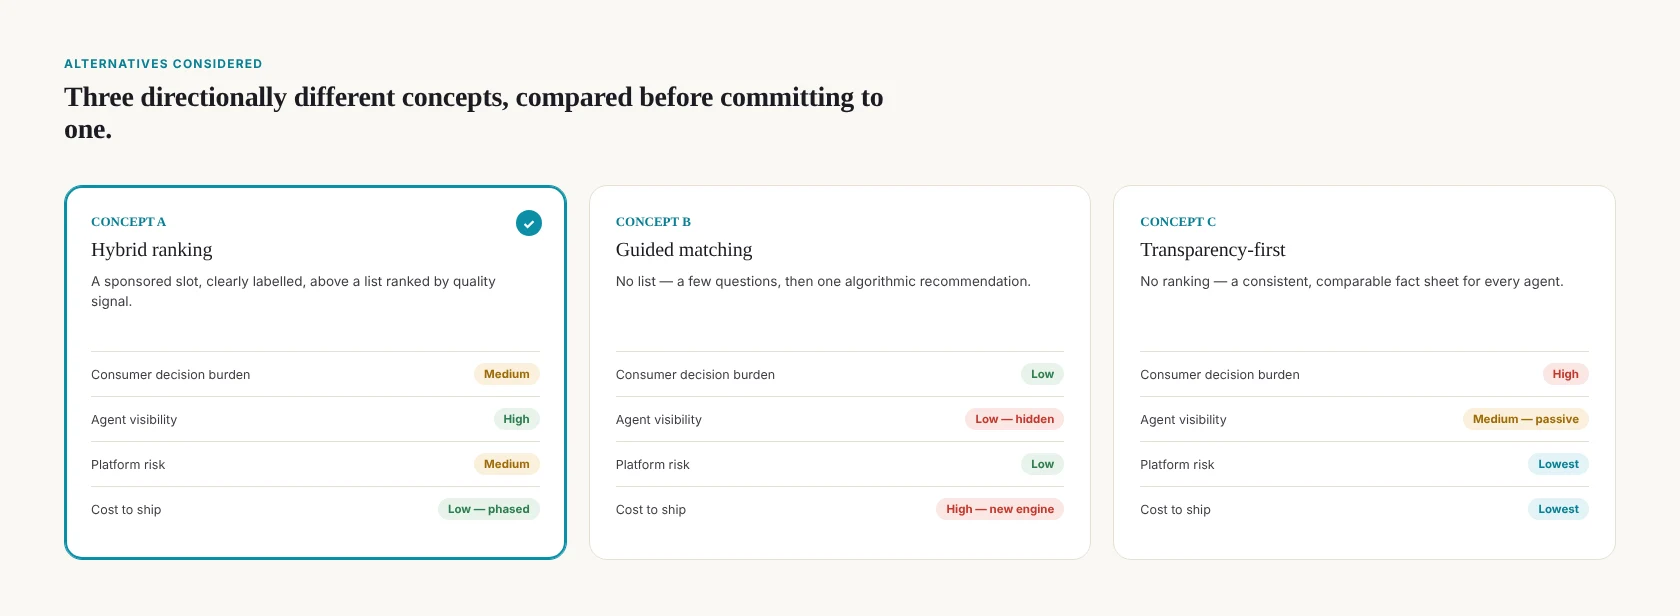
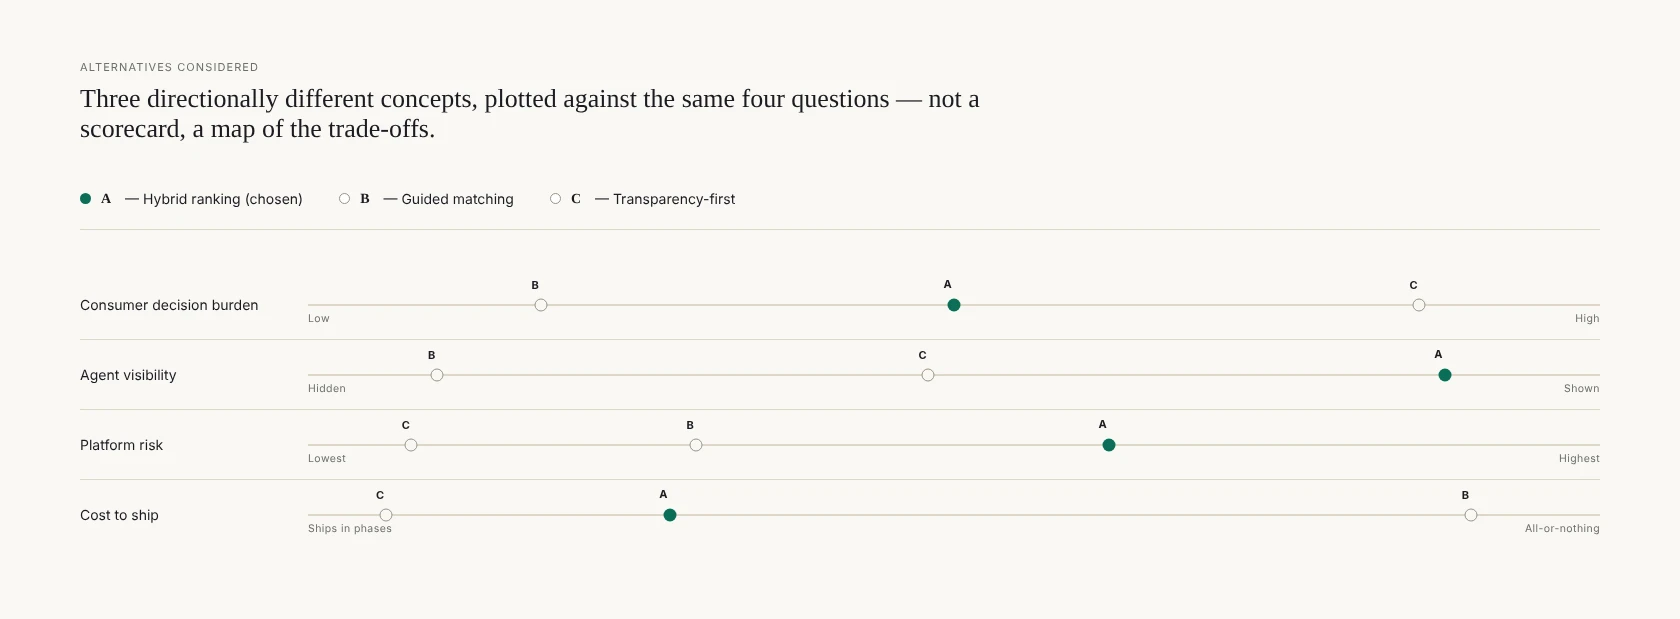
Redesign Rightmove Partners visuals, trim prose
Replace the three mockups with a more editorial, less templated
visual language (serif headlines, hairline rules, no card/shadow/pill
chrome), swap the three-card trade-off grid for a dot-plot comparison
diagram, and add a simple before/after flow diagram for the core
problem. Cut prose throughout so the images carry more of the story.

diff --git a/work/rightmove-partners.html b/work/rightmove-partners.html
@@ -59,56 +59,57 @@
     <section class="cs-section" id="sec-summary-0">
   <span class="num">01</span>
   <h2 class="divider serif split"><span class="w">Summary</span></h2>
-  <p class="text reveal">This is a concept project, not a client engagement. It started from a specific question about a real, live product: Rightmove's agent-valuation flow promises “your chosen agent” — but never explains how that choice actually happens. I used that gap to explore what a Lead Product Designer role on Rightmove's Partners domain would actually require: not just a redesigned screen, but a defensible point of view on a two-sided trust problem.</p>
-<div class="cards  reveal"><div class="mini"><svg class="mini-icon" viewBox="0 0 24 24" fill="none" stroke="currentColor" stroke-width="1.6" stroke-linecap="round" stroke-linejoin="round" aria-hidden="true"><circle cx="12" cy="12" r="10"/><polygon points="16.24 7.76 14.12 14.12 7.76 16.24 9.88 9.88 16.24 7.76"/></svg><b>Diagnosed from both sides</b><span>Consumers get no trust signal when picking an agent. Agents get no way to differentiate beyond paid placement. Neither side's problem is solved by fixing the other.</span></div><div class="mini"><svg class="mini-icon" viewBox="0 0 24 24" fill="none" stroke="currentColor" stroke-width="1.6" stroke-linecap="round" stroke-linejoin="round" aria-hidden="true"><path d="M12 3v18M3 7h18M6 7l-3.5 7a3 3 0 0 0 6 0zM18 7l-3.5 7a3 3 0 0 0 6 0z"/></svg><b>Three directions weighed</b><span>Compared against two rejected alternatives — a guided-matching engine and a no-ranking fact sheet — before committing, and for stated reasons.</span></div><div class="mini"><svg class="mini-icon" viewBox="0 0 24 24" fill="none" stroke="currentColor" stroke-width="1.6" stroke-linecap="round" stroke-linejoin="round" aria-hidden="true"><path d="M9 21h9M8 21c1.5 0 2-1 2-2.5V8a3.5 3.5 0 0 1 6.5-1.9M6 13h8"/></svg><b>Commercial model preserved</b><span>Paid placement stays. It just stops pretending to be a trust signal. The redesign has to survive a conversation with the team that owns that revenue.</span></div></div>
-<p class="text reveal">Role: self-directed, solo. Based entirely on Rightmove's public-facing pages — no internal data, no access, no claim that this is what Rightmove is actually building.</p>
+  <p class="text reveal">Rightmove's agent-valuation flow promises “your chosen agent”, then never lets you choose. I used that gap to explore what a Lead role on Rightmove's Partners domain actually requires.</p>
+<div class="cards  reveal"><div class="mini"><svg class="mini-icon" viewBox="0 0 24 24" fill="none" stroke="currentColor" stroke-width="1.6" stroke-linecap="round" stroke-linejoin="round" aria-hidden="true"><path d="M10 13a5 5 0 0 0 7.54.54l3-3a5 5 0 0 0-7.07-7.07l-1.72 1.71"/><path d="M14 11a5 5 0 0 0-7.54-.54l-3 3a5 5 0 0 0 7.07 7.07l1.71-1.71"/></svg><b>Diagnosed from both sides</b><span>Consumers get no trust signal. Agents get no way to differentiate beyond ad spend.</span></div><div class="mini"><svg class="mini-icon" viewBox="0 0 24 24" fill="none" stroke="currentColor" stroke-width="1.6" stroke-linecap="round" stroke-linejoin="round" aria-hidden="true"><path d="M12 3v18M3 7h18M6 7l-3.5 7a3 3 0 0 0 6 0zM18 7l-3.5 7a3 3 0 0 0 6 0z"/></svg><b>Three directions weighed</b><span>Compared against two rejected alternatives, for stated reasons, before committing.</span></div><div class="mini"><svg class="mini-icon" viewBox="0 0 24 24" fill="none" stroke="currentColor" stroke-width="1.6" stroke-linecap="round" stroke-linejoin="round" aria-hidden="true"><path d="M9 21h9M8 21c1.5 0 2-1 2-2.5V8a3.5 3.5 0 0 1 6.5-1.9M6 13h8"/></svg><b>Commercial model preserved</b><span>Paid placement stays. It just stops pretending to be a trust signal.</span></div></div>
+<p class="text reveal">Role: self-directed, solo. Based on Rightmove's public pages — no internal data, no claim that this is what Rightmove is building.</p>
 </section>
 <section class="cs-section" id="sec-the-problem-1">
   <span class="num">02</span>
   <h2 class="divider serif split"><span class="w">The</span> <span class="w">Problem</span></h2>
-  <p class="text reveal">Rightmove's Partners domain sits between two users who need to trust each other before any transaction happens: a homeowner picking who sells their home, and an agent trying to prove they're worth picking. I looked at what the live product actually shows each side.</p>
-<div class="cards c2 reveal"><div class="mini"><svg class="mini-icon" viewBox="0 0 24 24" fill="none" stroke="currentColor" stroke-width="1.6" stroke-linecap="round" stroke-linejoin="round" aria-hidden="true"><path d="M10 13a5 5 0 0 0 7.54.54l3-3a5 5 0 0 0-7.07-7.07l-1.72 1.71"/><path d="M14 11a5 5 0 0 0-7.54-.54l-3 3a5 5 0 0 0 7.07 7.07l1.71-1.71"/></svg><b>Consumer side — a black box</b><span>rightmove.co.uk/agent-valuation says “your chosen agent will value your home,” then gives no mechanism to choose: no reviews, no ratings, no comparison. The agent is assigned, not picked.</span></div><div class="mini"><svg class="mini-icon" viewBox="0 0 24 24" fill="none" stroke="currentColor" stroke-width="1.6" stroke-linecap="round" stroke-linejoin="round" aria-hidden="true"><path d="M9 21h9M8 21c1.5 0 2-1 2-2.5V8a3.5 3.5 0 0 1 6.5-1.9M6 13h8"/></svg><b>Agent side — pay or disappear</b><span>rightmove.co.uk/advertise-with-us shows the only differentiation lever on offer is paid Premium Listing / Featured Property placement. A well-reviewed independent agent and a mediocre one compete on budget, not service.</span></div></div>
-<p class="text reveal">Put together, Rightmove has turned “matching an agent” into black-box assignment plus paid visibility. Neither side gets a real trust mechanism — which is precisely the gap the job description names: “helping consumers feel more confident when choosing an estate agent, while helping agents demonstrate the value they offer.”</p>
+  <div class="cards c2 reveal"><div class="mini"><svg class="mini-icon" viewBox="0 0 24 24" fill="none" stroke="currentColor" stroke-width="1.6" stroke-linecap="round" stroke-linejoin="round" aria-hidden="true"><path d="M10 13a5 5 0 0 0 7.54.54l3-3a5 5 0 0 0-7.07-7.07l-1.72 1.71"/><path d="M14 11a5 5 0 0 0-7.54-.54l-3 3a5 5 0 0 0 7.07 7.07l1.71-1.71"/></svg><b>Consumer side — a black box</b><span>rightmove.co.uk/agent-valuation assigns an agent with no reviews, ratings, or comparison.</span></div><div class="mini"><svg class="mini-icon" viewBox="0 0 24 24" fill="none" stroke="currentColor" stroke-width="1.6" stroke-linecap="round" stroke-linejoin="round" aria-hidden="true"><path d="M9 21h9M8 21c1.5 0 2-1 2-2.5V8a3.5 3.5 0 0 1 6.5-1.9M6 13h8"/></svg><b>Agent side — pay or disappear</b><span>rightmove.co.uk/advertise-with-us: the only differentiation on offer is paid placement.</span></div></div>
+<div class="compare full reveal">
+        <figure><div class="compare-label">Today</div><img src="../assets/img/cs8-flow-today.webp" alt="" loading="lazy"><figcaption>a black box, no visible signal</figcaption></figure>
+        <figure><div class="compare-label">Proposed</div><img src="../assets/img/cs8-flow-proposed.webp" alt="" loading="lazy"><figcaption>two visible signals, clearly labelled</figcaption></figure>
+      </div>
+<p class="text reveal">Neither side gets a real trust mechanism — precisely the gap the job description names: “helping consumers feel more confident when choosing an estate agent, while helping agents demonstrate the value they offer.”</p>
 </section>
 <section class="cs-section" id="sec-alternatives-considered-2">
   <span class="num">03</span>
   <h2 class="divider serif split"><span class="w">Alternatives</span> <span class="w">Considered</span></h2>
-  <p class="text reveal">Before designing a screen, I forced myself to generate two genuinely different directions — not variations on the same idea — so the choice would be a real trade-off, not the only idea I had.</p>
-<figure class="reveal full"><img src="../assets/img/cs8-tradeoff.webp" alt="" loading="lazy"><figcaption>Three directionally different concepts, compared on consumer burden, agent visibility, platform risk, and cost to ship.</figcaption></figure>
-<p class="text reveal">Guided matching removes the comparison entirely — a few questions, then one algorithmic recommendation. It's the most comfortable experience for a first-time seller, but it hides agents behind a black box, which argues against the job's own goal of letting agents demonstrate value, and it can't ship incrementally: there's no matching engine to validate until the whole thing is built.</p>
-<p class="text reveal">Transparency-first drops ranking altogether and just shows consistent facts — like a nutrition label. It's the lowest-risk option for Rightmove and the easiest to defend to agents, but it hands the comparison burden straight back to the user and doesn't resolve what “confidence” was supposed to mean in the first place.</p>
-<div class="dd reveal"><b>Design decision</b><p>I chose the hybrid ranking — not because it scored best on every axis, but because it's the only one of the three that can ship in phases and be validated at low risk. I then folded Transparency-first's best property into it anyway: the Quality Score's methodology is published and queryable by agents, borrowing C's honesty without taking on its passivity.</p></div>
+  <p class="text reveal">Two genuinely different directions, not variations on one idea — so the choice would be a real trade-off.</p>
+<figure class="reveal full"><img src="../assets/img/cs8-tradeoff.webp" alt="" loading="lazy"><figcaption>Three directionally different concepts, mapped against the same four questions.</figcaption></figure>
+<div class="dd reveal"><b>Design decision</b><p>I chose the hybrid ranking — not because it scored best on every axis, but because it's the only one of the three that ships in phases and can be validated at low risk. Transparency-first's best property got folded in anyway: the Quality Score's methodology is published and queryable by agents.</p></div>
 </section>
 <section class="cs-section" id="sec-the-approach-3">
   <span class="num">04</span>
   <h2 class="divider serif split"><span class="w">The</span> <span class="w">Approach</span></h2>
-  <p class="text reveal">Paid should decide where you're seen. It shouldn't decide why you're trusted. Right now Rightmove conflates the two, and fixing that in one release would mean rebuilding the business model and the ranking logic at the same time — too much change, too much risk, in one step. So the approach is phased.</p>
-<div class="cards  reveal"><div class="mini"><svg class="mini-icon" viewBox="0 0 24 24" fill="none" stroke="currentColor" stroke-width="1.6" stroke-linecap="round" stroke-linejoin="round" aria-hidden="true"><path d="M4 15s1-1 4-1 5 2 8 2 4-1 4-1V3s-1 1-4 1-5-2-8-2-4 1-4 1z"/><line x1="4" y1="22" x2="4" y2="15"/></svg><b>Phase 1 — Make paid honest</b><span>Agents keep priority placement, but it's now labelled Sponsored — no change to the business model, just transparency. Ships on its own, cheaply, and is the only change needed to stop the flow from being actively misleading.</span></div><div class="mini"><svg class="mini-icon" viewBox="0 0 24 24" fill="none" stroke="currentColor" stroke-width="1.6" stroke-linecap="round" stroke-linejoin="round" aria-hidden="true"><polyline points="23 6 13.5 15.5 8.5 10.5 1 18"/><polyline points="17 6 23 6 23 12"/></svg><b>Phase 2 — Add a second, earned axis</b><span>Alongside Sponsored, surface non-paid performance signals — time-to-sale, valuation accuracy, response time — as a “Shown based on performance” section. Now agents without ad budget have somewhere to compete.</span></div><div class="mini"><svg class="mini-icon" viewBox="0 0 24 24" fill="none" stroke="currentColor" stroke-width="1.6" stroke-linecap="round" stroke-linejoin="round" aria-hidden="true"><circle cx="12" cy="12" r="10"/><circle cx="12" cy="12" r="6"/><circle cx="12" cy="12" r="2"/></svg><b>Phase 3 — Let the two axes reward each other</b><span>Agents above a quality threshold get a lower cost-per-lead on paid placement — the way Google Ads' Quality Score works. Both sides now have a reason to actually perform, not just to spend.</span></div></div>
+  <p class="text reveal">Paid decides where you're seen. It shouldn't decide why you're trusted — so the fix ships in phases, not one release.</p>
+<div class="cards  reveal"><div class="mini"><svg class="mini-icon" viewBox="0 0 24 24" fill="none" stroke="currentColor" stroke-width="1.6" stroke-linecap="round" stroke-linejoin="round" aria-hidden="true"><path d="M4 15s1-1 4-1 5 2 8 2 4-1 4-1V3s-1 1-4 1-5-2-8-2-4 1-4 1z"/><line x1="4" y1="22" x2="4" y2="15"/></svg><b>Phase 1 — Make paid honest</b><span>Agents keep priority placement, now labelled Sponsored. No change to the business model.</span></div><div class="mini"><svg class="mini-icon" viewBox="0 0 24 24" fill="none" stroke="currentColor" stroke-width="1.6" stroke-linecap="round" stroke-linejoin="round" aria-hidden="true"><polyline points="23 6 13.5 15.5 8.5 10.5 1 18"/><polyline points="17 6 23 6 23 12"/></svg><b>Phase 2 — Add a second, earned axis</b><span>Non-paid performance signals — time-to-sale, accuracy, response time — give agents without ad budget somewhere to compete.</span></div><div class="mini"><svg class="mini-icon" viewBox="0 0 24 24" fill="none" stroke="currentColor" stroke-width="1.6" stroke-linecap="round" stroke-linejoin="round" aria-hidden="true"><circle cx="12" cy="12" r="10"/><circle cx="12" cy="12" r="6"/><circle cx="12" cy="12" r="2"/></svg><b>Phase 3 — Let the two axes reward each other</b><span>Agents above a quality threshold get a lower cost-per-lead — both sides now have a reason to perform.</span></div></div>
 </section>
 <section class="cs-section" id="sec-concept-4">
   <span class="num">05</span>
   <h2 class="divider serif split"><span class="w">Concept</span></h2>
   <p class="lead reveal">Compare agents near you — the consumer side</p>
-<p class="text reveal">The craft problem here isn't the ranking logic — it's making Sponsored feel honest rather than deceptive, while keeping it commercially attractive enough that agents still pay for it. A visually distinct card, a plain-language label, and a hard visual break before the earned results below do that without needing to hide the paid slot at all.</p>
+<p class="text reveal">The craft problem: make Sponsored feel honest, not deceptive, without losing its commercial pull.</p>
 <figure class="reveal full"><img src="../assets/img/cs8-hero.webp" alt="" loading="lazy"></figure>
-<div class="cards  reveal"><div class="mini"><svg class="mini-icon" viewBox="0 0 24 24" fill="none" stroke="currentColor" stroke-width="1.6" stroke-linecap="round" stroke-linejoin="round" aria-hidden="true"><path d="M9 21h9M8 21c1.5 0 2-1 2-2.5V8a3.5 3.5 0 0 1 6.5-1.9M6 13h8"/></svg><b>Sponsored, not disguised</b><span>One paid slot, visually distinct, clearly labelled — the same convention as Google Search ads. It doesn't need to hide to keep its commercial value.</span></div><div class="mini"><svg class="mini-icon" viewBox="0 0 24 24" fill="none" stroke="currentColor" stroke-width="1.6" stroke-linecap="round" stroke-linejoin="round" aria-hidden="true"><line x1="12" y1="20" x2="12" y2="10"/><line x1="18" y1="20" x2="18" y2="4"/><line x1="6" y1="20" x2="6" y2="16"/></svg><b>Earned results, ranked on signal</b><span>Time-to-sale and valuation accuracy, not star ratings — harder to fake, and consistent with avoiding the review-manipulation problem reviews bring with them.</span></div><div class="mini"><svg class="mini-icon" viewBox="0 0 24 24" fill="none" stroke="currentColor" stroke-width="1.6" stroke-linecap="round" stroke-linejoin="round" aria-hidden="true"><path d="M10 13a5 5 0 0 0 7.54.54l3-3a5 5 0 0 0-7.07-7.07l-1.72 1.71"/><path d="M14 11a5 5 0 0 0-7.54-.54l-3 3a5 5 0 0 0 7.07 7.07l1.71-1.71"/></svg><b>A score you can question</b><span>Every Quality Score links to its own methodology — the transparency principle absorbed from the rejected Concept C.</span></div></div>
-<p class="lead reveal">Your value profile — the agent side</p>
-<p class="text reveal">A multi-sided marketplace redesign that only shows the consumer-facing screen hasn't actually solved the two-sided problem. Agents need to see why they rank where they do, in terms they can act on — and see, explicitly, that performing well also makes paid placement cheaper.</p>
+<div class="cards  reveal"><div class="mini"><svg class="mini-icon" viewBox="0 0 24 24" fill="none" stroke="currentColor" stroke-width="1.6" stroke-linecap="round" stroke-linejoin="round" aria-hidden="true"><path d="M9 21h9M8 21c1.5 0 2-1 2-2.5V8a3.5 3.5 0 0 1 6.5-1.9M6 13h8"/></svg><b>Sponsored, not disguised</b><span>One paid slot, visually distinct — the same convention as Google Search ads.</span></div><div class="mini"><svg class="mini-icon" viewBox="0 0 24 24" fill="none" stroke="currentColor" stroke-width="1.6" stroke-linecap="round" stroke-linejoin="round" aria-hidden="true"><line x1="12" y1="20" x2="12" y2="10"/><line x1="18" y1="20" x2="18" y2="4"/><line x1="6" y1="20" x2="6" y2="16"/></svg><b>Earned results, ranked on signal</b><span>Time-to-sale and accuracy, not star ratings — harder to fake than a review.</span></div><div class="mini"><svg class="mini-icon" viewBox="0 0 24 24" fill="none" stroke="currentColor" stroke-width="1.6" stroke-linecap="round" stroke-linejoin="round" aria-hidden="true"><path d="M10 13a5 5 0 0 0 7.54.54l3-3a5 5 0 0 0-7.07-7.07l-1.72 1.71"/><path d="M14 11a5 5 0 0 0-7.54-.54l-3 3a5 5 0 0 0 7.07 7.07l1.71-1.71"/></svg><b>A score you can question</b><span>Every Quality Score links to its own methodology.</span></div></div>
+<p class="lead reveal">Why you rank where you do — the agent side</p>
+<p class="text reveal">A two-sided redesign that only shows the consumer screen hasn't solved the two-sided problem.</p>
 <figure class="reveal full"><img src="../assets/img/cs8-value-profile.webp" alt="" loading="lazy"></figure>
 </section>
 <section class="cs-section" id="sec-leading-this-5">
   <span class="num">06</span>
   <h2 class="divider serif split"><span class="w">Leading</span> <span class="w">This</span></h2>
-  <p class="text reveal">A vision slide is easy to make convincing. The parts of this I'd actually want to put in front of a team before anyone built anything:</p>
-<div class="cards  reveal"><div class="mini"><svg class="mini-icon" viewBox="0 0 24 24" fill="none" stroke="currentColor" stroke-width="1.6" stroke-linecap="round" stroke-linejoin="round" aria-hidden="true"><circle cx="12" cy="12" r="10"/><polygon points="16.24 7.76 14.12 14.12 7.76 16.24 9.88 9.88 16.24 7.76"/></svg><b>With Research &amp; Data</b><span>A visible Quality Score changes agent behaviour — not always for the better. Rewarding valuation accuracy could reward conservative estimates over the flattering ones sellers want, and a performance-based score structurally favours agents with more transaction history, which disadvantages exactly the new or small agents the job description says we're meant to help.</span></div><div class="mini"><svg class="mini-icon" viewBox="0 0 24 24" fill="none" stroke="currentColor" stroke-width="1.6" stroke-linecap="round" stroke-linejoin="round" aria-hidden="true"><path d="M12 3v18M3 7h18M6 7l-3.5 7a3 3 0 0 0 6 0zM18 7l-3.5 7a3 3 0 0 0 6 0z"/></svg><b>With Commercial &amp; Legal</b><span>Ranking agents shifts Rightmove from neutral directory to active endorser — real exposure if a highly-ranked agent performs badly, and real grounds for a lower-ranked agent to dispute the methodology. Separately: agents are the paying customer here, and discounting their placement cost by Quality Score is a negotiation with the team that owns that revenue, not a line in a deck.</span></div><div class="mini"><svg class="mini-icon" viewBox="0 0 24 24" fill="none" stroke="currentColor" stroke-width="1.6" stroke-linecap="round" stroke-linejoin="round" aria-hidden="true"><circle cx="12" cy="12" r="10"/><circle cx="12" cy="12" r="6"/><circle cx="12" cy="12" r="2"/></svg><b>My own call to defend</b><span>Deliberately not building this as a Yelp-style comparison page. Rightmove's valuation flow is a lead-generation funnel; too much comparison UI risks hurting completion rate. Default to one clear recommendation, make deeper comparison opt-in, not the first thing shown.</span></div></div>
+  <p class="text reveal">What I'd put on the table with the team before anyone built anything:</p>
+<div class="cards  reveal"><div class="mini"><svg class="mini-icon" viewBox="0 0 24 24" fill="none" stroke="currentColor" stroke-width="1.6" stroke-linecap="round" stroke-linejoin="round" aria-hidden="true"><circle cx="12" cy="12" r="10"/><polygon points="16.24 7.76 14.12 14.12 7.76 16.24 9.88 9.88 16.24 7.76"/></svg><b>With Research &amp; Data</b><span>Rewarding valuation accuracy could reward conservative estimates over flattering ones. A history-based score also disadvantages the new, small agents the job is meant to help.</span></div><div class="mini"><svg class="mini-icon" viewBox="0 0 24 24" fill="none" stroke="currentColor" stroke-width="1.6" stroke-linecap="round" stroke-linejoin="round" aria-hidden="true"><path d="M12 3v18M3 7h18M6 7l-3.5 7a3 3 0 0 0 6 0zM18 7l-3.5 7a3 3 0 0 0 6 0z"/></svg><b>With Commercial &amp; Legal</b><span>Ranking agents makes Rightmove an active endorser, not a neutral directory. Discounting placement cost by Quality Score is a negotiation with Revenue, not a line in a deck.</span></div><div class="mini"><svg class="mini-icon" viewBox="0 0 24 24" fill="none" stroke="currentColor" stroke-width="1.6" stroke-linecap="round" stroke-linejoin="round" aria-hidden="true"><circle cx="12" cy="12" r="10"/><circle cx="12" cy="12" r="6"/><circle cx="12" cy="12" r="2"/></svg><b>My own call to defend</b><span>Not building this as a Yelp-style comparison page — the valuation flow is a lead-gen funnel. One clear recommendation by default; comparison stays opt-in.</span></div></div>
 </section>
 <section class="cs-section" id="sec-reflection-6">
   <span class="num">07</span>
   <h2 class="divider serif split"><span class="w">Reflection</span></h2>
-  <p class="text reveal">This is a concept, not a validated design. The problem is real — I found it on Rightmove's own public pages — but the solution hasn't been in front of a single consumer or agent. I'd want to go in and actually test the assumption underneath all of it: that performance signals meaningfully increase booking confidence, rather than just adding more to read.</p>
-<ul class="bullets reveal"><li>Usability-test the Compare Agents screen against the current black-box flow, measuring completion rate, not just preference</li><li>Validate the Quality Score formula with real agent performance data before trusting it to rank anyone</li><li>Pressure-test the Sponsored + Quality Score pricing model with the commercial team that actually owns Premium Listing revenue</li><li>Check whether “performance over reviews” still holds once agents start optimising for the specific metrics being measured</li></ul>
+  <p class="text reveal">This is a concept, not a validated design. The problem is real; the solution hasn't been in front of a single consumer or agent.</p>
+<ul class="bullets reveal"><li>Usability-test Compare Agents against the current black-box flow, on completion rate, not preference</li><li>Validate the Quality Score formula against real agent performance before trusting it to rank anyone</li><li>Pressure-test the pricing model with the team that owns Premium Listing revenue</li><li>Check whether “performance over reviews” holds once agents optimise for the metric itself</li></ul>
 <h3 class="sub serif reveal">Why this belongs in the portfolio</h3>
-<p class="text reveal">Every other case study here is proof of execution on a real team, with real constraints and real outcomes. This one is proof of something else: given a problem I don't have internal access to, can I diagnose it accurately, generate real alternatives instead of one idea, and argue for a direction while being honest about where it could still go wrong. That's a different kind of evidence than a shipped metric — and it's the kind a Lead role is actually evaluated on.</p>
+<p class="text reveal">Every other case study here is proof of execution on a real team. This one is proof of something else: given a problem I don't have internal access to, can I diagnose it accurately, generate real alternatives, and argue for a direction while being honest about where it could still go wrong.</p>
 </section>
   </div>
 </div>
